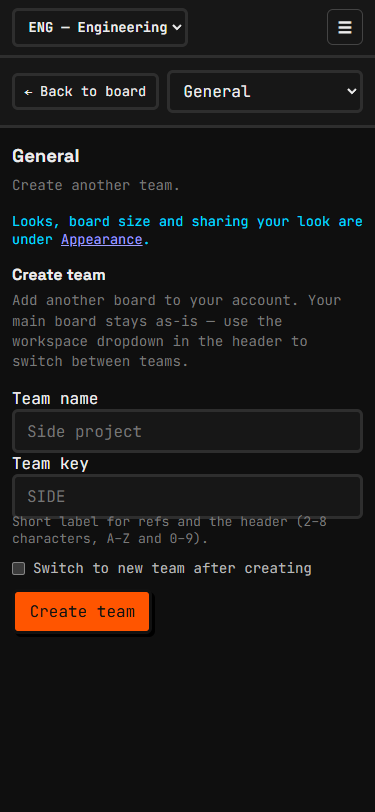
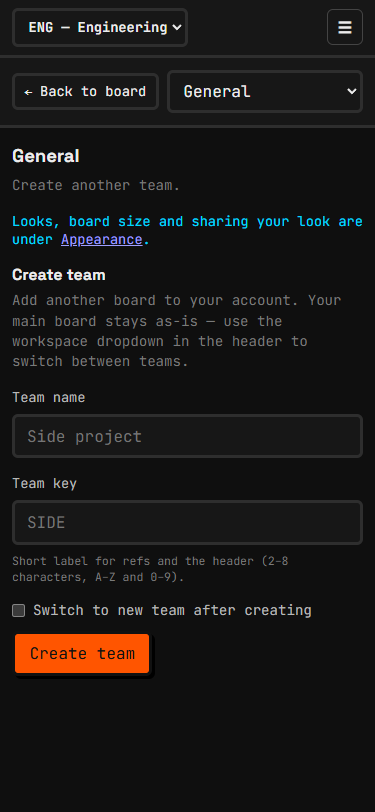
Space the Create team fields so the key hint no longer overlaps its input
Each field is a .settings-field (label, input, hint stacked with an 8px
--space-2 gap, --space-4 between fields). The old .settings-key-hint used a
negative top margin that pulled the hint over the Team key input's border.
The hint is now the input's accessible description. General after-shots
retaken at 1440 and 375.

Changed region(s): [[0.0293, 0.4618, 0.968, 0.8313], [0.6453, 0.7389, 0.8507, 0.7697], [0.528, 0.7389, 0.616, 0.7697]]

diff --git a/apps/web/src/components/CreateTeamSection.tsx b/apps/web/src/components/CreateTeamSection.tsx
@@ -74,8 +74,8 @@ export function CreateTeamSection({ onMessage, onTeamCreated }: CreateTeamSectio
         Add another board to your account. Your main board stays as-is — use the workspace dropdown
         in the header to switch between teams.
       </p>
-      <label>
-        Team name
+      <label className="settings-field">
+        <span className="settings-field-label">Team name</span>
         <input
           value={name}
           onChange={(e) => updateName(e.target.value)}
@@ -83,9 +83,13 @@ export function CreateTeamSection({ onMessage, onTeamCreated }: CreateTeamSectio
           maxLength={120}
         />
       </label>
-      <label>
-        Team key
+      <div className="settings-field">
+        <label className="settings-field-label" htmlFor="create-team-key">
+          Team key
+        </label>
         <input
+          id="create-team-key"
+          aria-describedby="create-team-key-hint"
           value={key}
           onChange={(e) => {
             setKeyTouched(true);
@@ -95,10 +99,10 @@ export function CreateTeamSection({ onMessage, onTeamCreated }: CreateTeamSectio
           maxLength={8}
           spellCheck={false}
         />
-      </label>
-      <p className="settings-hint settings-key-hint">
-        Short label for refs and the header (2–8 characters, A–Z and 0–9).
-      </p>
+        <span className="settings-field-hint" id="create-team-key-hint">
+          Short label for refs and the header (2–8 characters, A–Z and 0–9).
+        </span>
+      </div>
       <label className="settings-checkbox">
         <input
           type="checkbox"

diff --git a/apps/web/src/styles/settings.css b/apps/web/src/styles/settings.css
@@ -946,10 +946,22 @@
   margin-bottom: 0.75rem;
 }
 
-.settings-key-hint {
-  margin: -0.35rem 0 0.75rem;
+/* A form field: label, input and hint stacked with spacing tokens (no overlap). */
+.settings-field {
+  display: grid;
+  gap: var(--space-2);
+  margin: 0 0 var(--space-4);
+}
+
+.settings-field-label {
+  font-size: var(--font-size-sm);
+  color: var(--text-soft);
+}
+
+.settings-field-hint {
+  font-size: var(--font-size-xs);
+  line-height: 1.4;
   color: var(--muted);
-  font-size: 0.82rem;
 }
 
 .settings-checkbox {

diff --git a/apps/web/tests/appearance.test.tsx b/apps/web/tests/appearance.test.tsx
@@ -89,6 +89,8 @@ describe("appearance panel", () => {
       screen.queryByText(/Profile backup|Export profile|Import profile/),
     ).not.toBeInTheDocument();
     expect(screen.queryByRole("heading", { name: "Advanced" })).not.toBeInTheDocument();
+    expect(screen.getByLabelText("Team name")).toBeInTheDocument();
+    expect(screen.getByLabelText("Team key")).toHaveAccessibleDescription(/2–8 characters/);
   });
 
   it("shows Saving…, then Saved, and offers Retry when a save fails", async () => {
